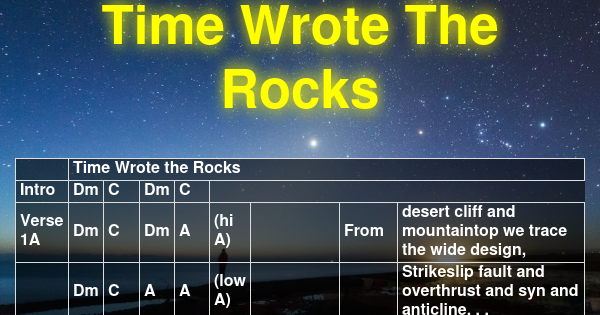
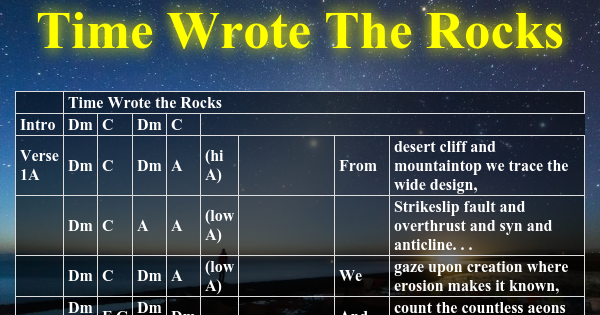
polishes

diff --git a/songs/Time_Wrote_the_Rocks/gen/Time_Wrote_the_Rocks-chord-chart.html b/songs/Time_Wrote_the_Rocks/gen/Time_Wrote_the_Rocks-chord-chart.html
@@ -16,7 +16,7 @@
 <tr><td>Intro</td><td>Dm</td><td>C</td><td>Dm</td><td>C</td></tr>
 <tr><td>Verse 1A</td><td>Dm</td><td>C</td><td>Dm</td><td>A</td><td>(hi A)</td><td></td><td>From</td><td colspan=4>desert cliff and mountaintop we trace the wide design,</td></tr>
 <tr><td></td><td>Dm</td><td>C</td><td>A</td><td>A</td><td>(low A)</td><td></td><td></td><td colspan=4>Strikeslip fault and overthrust and syn and anticline. . .</td></tr>
-<tr><td></td><td>Dm</td><td>C</td><td>Dm</td><td>A</td><td>(low A)</td><td></td><td>We</td><td colspan=4>gaze upon cre - ation where e - rosion makes it known,</td></tr>
+<tr><td></td><td>Dm</td><td>C</td><td>Dm</td><td>A</td><td>(low A)</td><td></td><td>We</td><td colspan=4>gaze upon creation where erosion makes it known,</td></tr>
 <tr><td></td><td>Dm  C</td><td>F  G</td><td>Dm  C</td><td>Dm</td><td></td><td></td><td>And</td><td colspan=4>count the countless aeons in the banding of the stone.</td></tr>
 <tr><td>Verse 1B</td><td>C</td><td>C</td><td>Dm</td><td>Dm</td><td></td><td></td><td></td><td colspan=4>Odd long vanished creatures & their tracks & shells are found</td></tr>
 <tr><td></td><td>C</td><td>C</td><td>Dm</td><td>A</td><td>(hi A)</td><td></td><td>Where</td><td colspan=4>truth has left its sketches on the slate below the ground.</td></tr>
@@ -30,7 +30,7 @@
 <tr><td></td><td>Dm  C</td><td>F  Gm</td><td>Dm  C</td><td>Dm</td><td></td><td></td><td></td><td colspan=4>Galileo recanted, but the Earth is moving still.</td></tr>
 <tr><td>Verse 2B</td><td>C</td><td>C</td><td>Dm</td><td>Dm</td><td></td><td></td><td></td><td colspan=4>High above the mountaintops, where only distance bars,</td></tr>
 <tr><td></td><td>C</td><td>C</td><td>Dm</td><td>A</td><td>(hi A)</td><td></td><td>The</td><td colspan=4>truth has left its footprints in the dust between the stars</td></tr>
-<tr><td></td><td>Dm</td><td>C</td><td>Dm</td><td>A</td><td>(low A)</td><td></td><td></td><td colspan=4>We may watch and study or may   shudder and de-ny</td></tr>
+<tr><td></td><td>Dm</td><td>C</td><td>Dm</td><td>A</td><td>(low A)</td><td></td><td></td><td colspan=4>We may watch and study or may   shudder and deny</td></tr>
 <tr><td></td><td>Dm  C</td><td>F  G</td><td></td><td>   F</td><td>C </td><td></td><td></td><td>Humans wrote the book of night…</td><td></td><td></td><td colspan=1>...   fire wrote the</td></tr>
 <tr><td></td><td>Dm</td><td>C</td><td>Dm</td><td>C</td><td></td><td></td><td></td><td colspan=4>sky...</td></tr>
 <tr><td></td><td>Dm  C</td><td>F   G</td><td>F  C</td><td>Dm</td></tr>
@@ -52,6 +52,6 @@
 <tr><td></td><td>C</td><td>C</td><td>Dm</td><td>A</td><td>(hi A)</td><td></td><td></td><td colspan=4>The truth has left its living word for anyone to read.</td></tr>
 <tr><td></td><td>Dm</td><td>C</td><td>Dm</td><td>A</td><td>(low A)</td><td></td><td></td><td colspan=4>So turn and look where best you think the story is unfurled.</td></tr>
 <tr><td></td><td>Dm  C</td><td>F  C</td><td></td><td>   Dm</td><td>C</td><td>(hi Dm/C)</td><td></td><td>Humans write the book of truth...</td><td></td><td></td><td colspan=1>... truth writes the</td></tr>
-<tr><td></td><td>Dm</td><td>C</td><td>Dm</td><td>C</td></tr>
+<tr><td></td><td>Dm</td><td>C</td><td>Dm</td><td>C</td><td></td><td></td><td></td><td colspan=4>world</td></tr>
 <tr><td></td><td>Dm  C</td><td>F   G</td><td>F  C</td><td>Dm</td><td colspan=7>(retardano)</td></tr>
 </table></body></html>

diff --git a/songs/Always_Look_on_the_Bright_Side/gen/index.html b/songs/Always_Look_on_the_Bright_Side/gen/index.html
@@ -8,7 +8,7 @@
     <meta property='og:image' content='https://secularsolstice.github.io/songs/Always_Look_on_the_Bright_Side/gen/thumb.png' />
     <meta name='twitter:image' content='https://secularsolstice.github.io/songs/Always_Look_on_the_Bright_Side/gen/thumb.png' />
     <meta property='og:title' content=' Always Look on the Bright Side' />
-    <meta property='og:description' content=' //  By Monty Python //  A silly song about making the best of terrible things // ' />
+    <meta property='og:description' content=' By Eric Idle //  A silly song about making the best of terrible things // Weve generally opened with this one.  It has the advantage that // ' />
   </head>  <body> 
     <div class=header>
       <a href="/">Home</a>
@@ -18,7 +18,7 @@
     </div>
 <div class=notes>
 <h1 id="always-look-on-the-bright-side">Always Look on the Bright Side</h1>
-<h2 id="by-monty-python">By Monty Python</h2>
+<h2 id="by-eric-idle">By Eric Idle</h2>
 <h2 id="a-silly-song-about-making-the-best-of-terrible-things">A silly song about making the best of terrible things</h2>
 <p>We’ve generally opened with this one. It has the advantage that everyone knows it. It also foreshadows all the dark elements of the Solstice while being bright and silly itself.</p>
 <p>You can watch <a href="https://www.youtube.com/watch?v=jHPOzQzk9Qo">the original video</a> for a sense of the idea and the sound.</p>

diff --git a/songs/Time_Wrote_the_Rocks/gen/index.html b/songs/Time_Wrote_the_Rocks/gen/index.html
@@ -28,7 +28,7 @@
 <h2>Lyrics</h2><p class=lyrics>
 From desert cliff and mountaintop we trace the wide design,<br>
  Strikeslip fault and overthrust and syn and anticline. . .<br>
-We gaze upon cre - ation where e - rosion makes it known,<br>
+We gaze upon creation where erosion makes it known,<br>
 And count the countless aeons in the banding of the stone.<br>
  Odd long vanished creatures &amp; their tracks &amp; shells are found<br>
 Where truth has left its sketches on the slate below the ground.<br>
@@ -42,7 +42,7 @@ The patient stone can speak, if we but listen when it talks.<br>
  Galileo recanted, but the Earth is moving still.<br>
  High above the mountaintops, where only distance bars,<br>
 The truth has left its footprints in the dust between the stars<br>
- We may watch and study or may   shudder and de-ny<br>
+ We may watch and study or may   shudder and deny<br>
  Humans wrote the book of night…   ...   fire wrote the<br>
  sky...<br>
 <br>
@@ -64,6 +64,7 @@ The pro foundest act of worship is to try to understand.<br>
  The truth has left its living word for anyone to read.<br>
  So turn and look where best you think the story is unfurled.<br>
  Humans write the book of truth...   ... truth writes the<br>
+ world<br>
 </p>
 <h2>Files</h2><ul>
 <li><a href=thumb.png>thumb.png</a>

diff --git a/songs/When_Im_Gone/gen/index.html b/songs/When_Im_Gone/gen/index.html
@@ -19,10 +19,8 @@
 <div class=notes>
 <h1 id="when-im-gone">When I’m Gone</h1>
 <h2 id="by-phil-ochs">by Phil Ochs</h2>
-<h2 id="all-the-things-that-can-only-be-done-while-here">All the things
-that can only be done while here</h2>
-<p><a href="https://www.youtube.com/watch?v=CXVBPRlm-qw">Original on
-youtube</a></p>
+<h2 id="all-the-things-that-can-only-be-done-while-here">All the things that can only be done while here</h2>
+<p><a href="https://www.youtube.com/watch?v=CXVBPRlm-qw">Original on youtube</a></p>
 <p><a href=https://github.com/SecularSolstice/SecularSolstice.github.io/edit/master/songs/When_Im_Gone/README.md class=editbutton>edit description</a></p>
 </div>
 <h2>Lyrics</h2><p class=lyrics>
@@ -70,7 +68,7 @@ Guess I'll have to do it while I'm here!<br>
 </p>
 <h2>Files</h2><ul>
 <li><a href=thumb.png>thumb.png</a>
-<li><a href=When_Im_Gone_lyrics.txt>When_Im_Gone_lyrics.txt</a>
+<li><a href=When_Im_Gone-lyrics.txt>When_Im_Gone-lyrics.txt</a>
 <li><a href=../lyrics.txt>lyrics.txt</a>
 <a href=https://github.com/SecularSolstice/SecularSolstice.github.io/edit/master/songs/When_Im_Gone/lyrics.txt class=editbutton>edit</a>
 <li><a href=../When_Im_Gone-sheet-music.pdf>When_Im_Gone-sheet-music.pdf</a>

diff --git a/songs/Always_Look_on_the_Bright_Side/README.md b/songs/Always_Look_on_the_Bright_Side/README.md
@@ -1,6 +1,5 @@
 #  Always Look on the Bright Side
-
-## By Monty Python
+## By Eric Idle
 ## A silly song about making the best of terrible things
 
 We've generally opened with this one.  It has the advantage that
